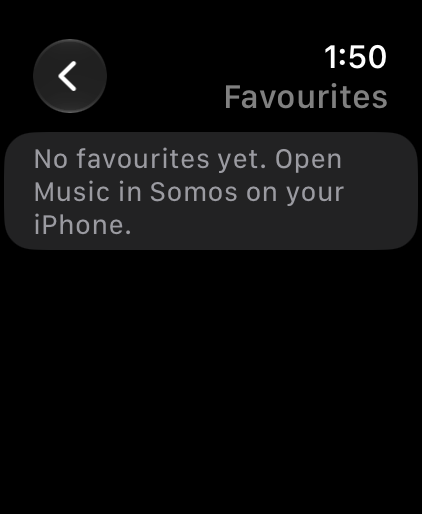
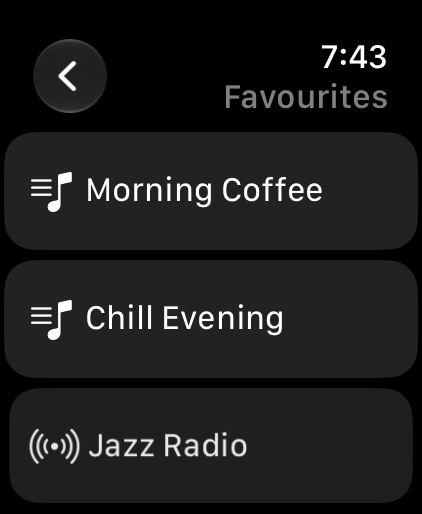
site: watch section — build 37 screenshots + watch face complications

diff --git a/somos-incontrol/index.html b/somos-incontrol/index.html
@@ -81,6 +81,7 @@ h2 { font-size: 26px; letter-spacing: -.015em; margin: 0 0 6px; }
 .watches { display: grid; grid-template-columns: 1fr 1fr; gap: 14px; align-items: start; }
 .device.watch { border-radius: 26%; padding: 7px; }
 .device.watch img { border-radius: 22%; }
+.walk:nth-child(even) .watches { order: 2; }
 
 /* support table */
 .rail { position: fixed; top: 0; left: 0; bottom: 0; width: 216px; overflow-y: auto; z-index: 20;
@@ -165,6 +166,7 @@ footer a { color: var(--dim); margin-right: 14px; }
   .tour.mac .device { max-width: none; }
   .walk:nth-child(even) .device { order: 0; }
   .watches { max-width: 320px; margin: 0 auto; }
+  .walk:nth-child(even) .watches { order: 0; }
   .watches .device { max-width: none; margin: 0; }
   .card.docs { grid-template-columns: 1fr; }
 }
@@ -638,27 +640,42 @@ footer a { color: var(--dim); margin-right: 14px; }
 <section class="tour" id="watch">
   <div class="wrap">
     <h2>On Apple Watch</h2>
-    <p class="sub">Somos InControl installs a small Apple Watch app alongside the iPhone app. Real screenshots from the Apple Watch Ultra 3 simulator with Demo Mode rooms; the last frame is the app's Smart Stack card drawn on a plain background.</p>
+    <p class="sub">Somos InControl installs a small Apple Watch app alongside the iPhone app. Real screenshots of the Watch app and two watch faces, with demo rooms and made-up songs; the Smart Stack frame is the app's card drawn on a plain background.</p>
 
     <div class="walk">
       <div class="watches">
-        <div class="device watch"><img src="assets/5-watch-rooms.webp" alt="The Somos Apple Watch app's first screen: a list titled Somos with the rooms Bedroom, Home Office and Living Room." loading="lazy" width="422" height="514"></div>
-        <div class="device watch"><img src="assets/8-watch-tv-room.webp" alt="A TV room on the Apple Watch: Living Room, a TV icon with TV · Dolby Atmos (MAT), volume 45 with a Mute button, and three presets Movie Night, Late Night and Dialogue." loading="lazy" width="422" height="514"></div>
-        <div class="device watch"><img src="assets/9-watch-music-room.webp" alt="A music room on the Apple Watch: Bedroom, an orange sunset album cover with Open Windows by Field Notes, volume 30 with a Mute button, pause and next, three presets Party Mix, Low Bass and Chill with Party Mix lit, and a Favourites button." loading="lazy" width="422" height="514"></div>
-        <div class="device watch"><img src="assets/12-watch-smart-stack.webp" alt="The Smart Stack card on a plain black background: a music note, Bedroom, Open Windows and 30%." loading="lazy" width="422" height="514"></div>
+        <div class="device watch"><img src="assets/5-watch-rooms.webp" alt="The Somos Apple Watch app's first screen: a list titled Somos with the rooms Living Room, Kitchen and Bedroom." loading="lazy" width="422" height="514"></div>
+        <div class="device watch"><img src="assets/9-watch-music-room.webp" alt="A music room on the Apple Watch: Kitchen, an orange sunset album cover with Golden Hour Drive by The Tidewaters, volume 32 with a Mute button, pause and next, three presets Party Mix, Jazz and Chill with Party Mix lit, and a Favourites button." loading="lazy" width="422" height="514"></div>
+        <div class="device watch"><img src="assets/8-watch-tv-room.webp" alt="A TV room on the Apple Watch: Living Room, a TV icon with TV · Dolby Atmos, volume 45 with a Mute button, and three presets Movie Night, Late Night and Sports with Movie Night lit." loading="lazy" width="422" height="514"></div>
+        <div class="device watch"><img src="assets/7-watch-favourites.webp" alt="The Favourites list on the Apple Watch: Morning Coffee and Chill Evening with a playlist icon, and Jazz Radio with a radio icon." loading="lazy" width="422" height="514"></div>
       </div>
       <div>
         <h3>On your wrist: the Apple Watch app</h3>
         <p>Open Somos on the phone once and your rooms appear on the Watch, in the same order as your bottom bar. Tap a room to see what is playing — the TV input and its audio format, or the song and its cover — then turn the Digital Crown for volume; the Watch talks to the speaker directly over your home Wi-Fi.</p>
         <ul>
           <li>Rooms come from the phone; the Watch keeps them, even when the phone is out of reach</li>
-          <li>Play / pause and next on a music room, with the cover, title and artist; a TV room shows the format instead — Dolby Atmos (MAT) here</li>
+          <li>Play / pause and next on a music room, with the cover, title and artist; a TV room shows the format instead — Dolby Atmos here</li>
           <li>The Crown is the volume dial — the number on screen follows it — with Mute beside it</li>
-          <li>The room's three presets from the wrist: TV presets on a TV room, music presets on a music room, the loaded one lit — Party Mix on the Bedroom</li>
-          <li>A Favourites button starts a Sonos® favorite on a music room</li>
-          <li>With Live Activity on, the phone's card also sits in the Watch's Smart Stack — room, what is playing and the volume at a glance, as in the last frame; tap it and the Watch app opens on that room</li>
+          <li>The room's three presets from the wrist: TV presets on a TV room, music presets on a music room, the loaded one lit — Party Mix in the Kitchen, Movie Night in the Living Room</li>
+          <li>A Favourites button on a music room lists your favorites — playlists and radio stations — and a tap starts one</li>
         </ul>
         <a class="more" href="https://docs.somosincontrol.com/features/apple-watch">The Apple Watch app, step by step</a>
+      </div>
+    </div>
+
+    <div class="walk">
+      <div class="watches">
+        <div class="device watch"><img src="assets/13-watch-face-modular-ultra.webp" alt="The Modular Ultra watch face with Somos complications: the Somos icon at the top left, the time 8:14, Living Room and Movie Night above EQ bars for Bass, Treble, Sub, Height and Surround with Loudness and Speech across the middle, then Play/Pause, Next Room reading Kitchen, and a Room dial at volume 45 along the bottom." loading="lazy" width="422" height="514"></div>
+        <div class="device watch"><img src="assets/14-watch-face-wayfinder.webp" alt="The Wayfinder watch face with Somos complications: Next: Kitchen and Bass +4 · Treble in the top corners, a Room dial at volume 45, EQ and Play/Pause inside the dial, and the Somos icon at the bottom left." loading="lazy" width="422" height="514"></div>
+        <div class="device watch"><img src="assets/15-watch-complications.webp" alt="The complication picker on the Apple Watch under Somos: the Somos InControl icon and the Room complication, a ring at volume 45." loading="lazy" width="422" height="514"></div>
+        <div class="device watch"><img src="assets/12-watch-smart-stack.webp" alt="The Smart Stack card on a plain black background: a music note, Bedroom, Open Windows and 30%." loading="lazy" width="422" height="514"></div>
+      </div>
+      <div>
+        <h3>On your watch face: complications</h3>
+        <p>Somos has five complications for your watch face: Icon, Room, EQ, Play/Pause and Next Room. Add them in the face editor under Somos — the Modular Ultra face in the first frame carries all five, with the EQ across the middle.</p>
+        <ul>
+          <li>With Live Activity on, the phone's card also sits in the Watch's Smart Stack — room, what is playing and the volume at a glance, as in the last frame; tap it and the Watch app opens on that room</li>
+        </ul>
       </div>
     </div>
   </div>
